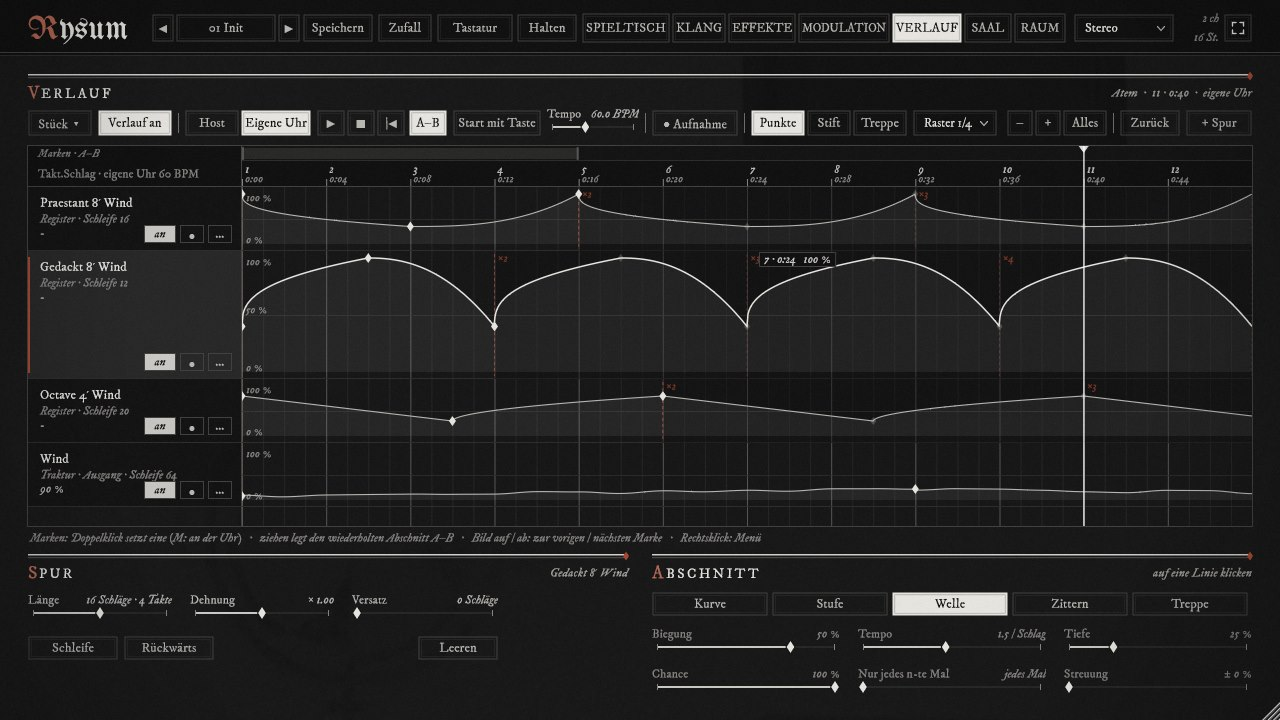
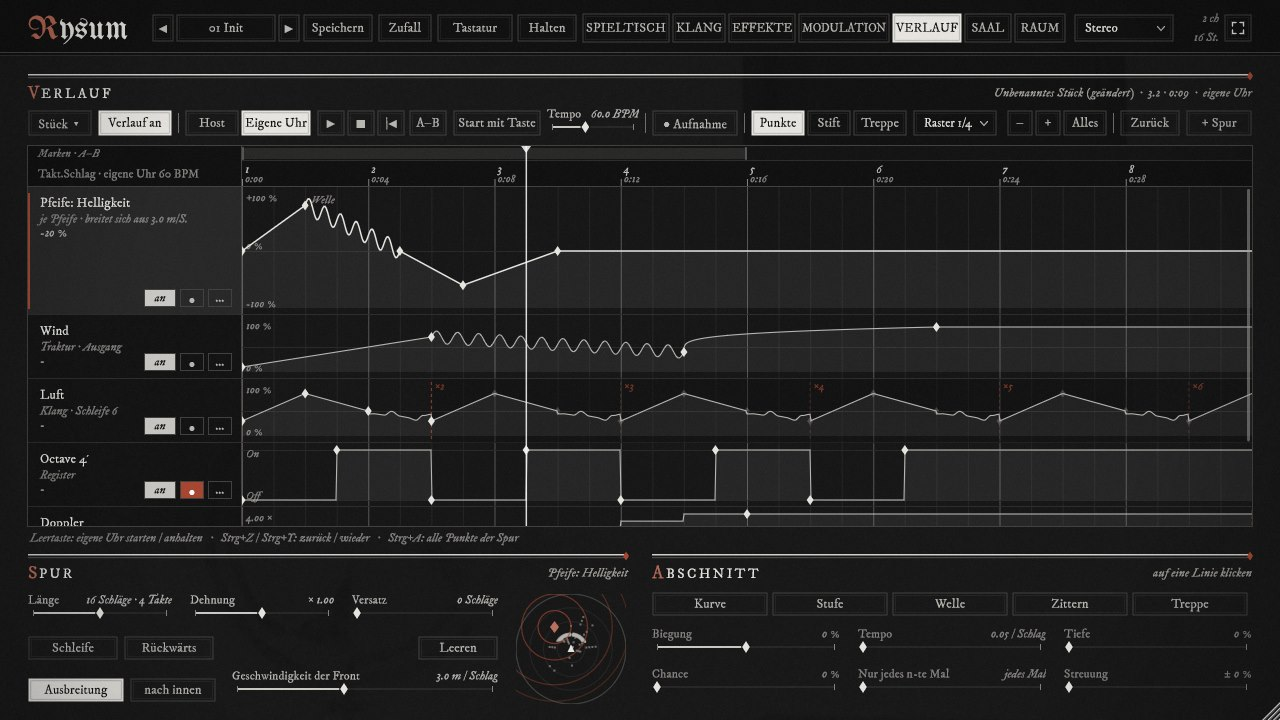
Rysum page: Verlauf picture with the gesture spreading through the room

diff --git a/rysum/index.html b/rysum/index.html
@@ -39,7 +39,7 @@
   <!-- PLUGIN-SCREENSHOTS: Datei nach img/web/ legen und hier eine Zeile wie unten ergänzen (data-cap = Titel in der Großansicht) -->
   <section class="gal shots" id="screens" aria-label="plugin screenshots">
     <figure class="ph shot first" data-fixed><img alt="Rysum plugin, console page: the stop knobs of eight stops and the Vox humana, key and release clicks, degradation controls, output level, scenes and keyboard" data-cap="Console" src="../img/web/rysum-plugin-spieltisch.jpg" width="1280" height="720" loading="lazy"><figcaption>console</figcaption></figure>
-    <figure class="ph shot" data-fixed><img alt="Rysum plugin, automation page: lanes for the wind of three stops and the main wind, drawn as curves and waves over a bar ruler" data-cap="Verlauf (automation)" src="../img/web/rysum-plugin-verlauf.jpg" width="1280" height="720" loading="lazy"><figcaption>verlauf</figcaption></figure>
+    <figure class="ph shot" data-fixed><img alt="Rysum plugin, automation page: a brightness gesture that spreads through the room from pipe to pipe, with the plan of its spreading front, above lanes for wind, air, a stop and Doppler" data-cap="Verlauf (automation)" src="../img/web/rysum-plugin-verlauf.jpg" width="1280" height="720" loading="lazy"><figcaption>verlauf</figcaption></figure>
     <figure class="ph shot" data-fixed><img alt="Rysum plugin, space page: top view with every pipe as a point, arrangement and movement controls" data-cap="Space" src="../img/web/rysum-plugin-raum.jpg" width="1280" height="720" loading="lazy"><figcaption>space</figcaption></figure>
     <figure class="ph shot" data-fixed><img alt="Rysum plugin, hall page: four rooms with floor plans, Lucier mode with its resonances, room size, surfaces and listener" data-cap="Hall and Lucier" src="../img/web/rysum-plugin-saal.jpg" width="1280" height="720" loading="lazy"><figcaption>hall and lucier</figcaption></figure>
     <figure class="ph shot" data-fixed><img alt="Rysum plugin, sound page: tuning, reference tone, MIDI, freeze, two loudspeakers, stop wind, tremulant, distance and Doppler, binaural headphones" data-cap="Sound" src="../img/web/rysum-plugin-klang.jpg" width="1280" height="720" loading="lazy"><figcaption>sound</figcaption></figure>
